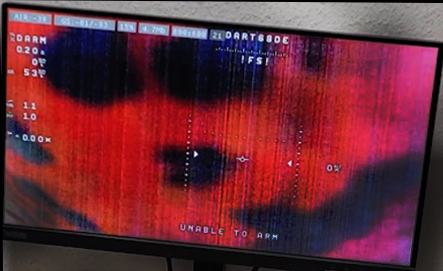
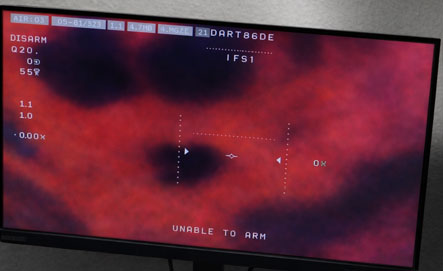
adjusted images and noise

diff --git a/src/main.ts b/src/main.ts
@@ -37,7 +37,6 @@ if (!compositionCtx) {
 const baseImage = new Image();
 baseImage.src = roomUrl;
 baseImage.decoding = 'async';
-baseImage.loading = 'lazy';
 baseImage.addEventListener('error', () => {
   console.error('Failed to load base image', roomUrl);
 });
@@ -85,52 +84,81 @@ const NB_FALLBACK_SIZE = { width: 320, height: 200 };
 const MONITOR_POS = { x: 550, y: 231 };
 const MONITOR_REGION = { width: 992 - 550, height: 501 - 231 };
 const MONITOR_FALLBACK_SIZE = { width: MONITOR_REGION.width, height: MONITOR_REGION.height };
-const MONITOR_NOISE_ALPHA = 0.08;
+const MONITOR_NOISE_ALPHA = 0.01;
+const MONITOR_NOISE_BLOCK_SIZE = 12;
 const NB_SCREEN_SRC = nbscreenUrl;
 const MONITOR_SRC = mscreenUrl;
 
 const noiseCanvas = document.createElement('canvas');
 noiseCanvas.width = NOISE_SIZE;
 noiseCanvas.height = NOISE_SIZE;
+const monitorNoiseCanvas = document.createElement('canvas');
+monitorNoiseCanvas.width = NOISE_SIZE;
+monitorNoiseCanvas.height = NOISE_SIZE;
 const noiseCtx = noiseCanvas.getContext('2d');
+const monitorNoiseCtx = monitorNoiseCanvas.getContext('2d');
 
 if (!noiseCtx) {
   throw new Error('Noise 2D context not available');
 }
+if (!monitorNoiseCtx) {
+  throw new Error('Monitor noise 2D context not available');
+}
 
 const notebookScreen = new Image();
 notebookScreen.decoding = 'async';
-notebookScreen.loading = 'lazy';
 
 const monitorScreen = new Image();
 monitorScreen.decoding = 'async';
-monitorScreen.loading = 'lazy';
 let ledOn = false;
 let blinkTimeout: number | undefined;
 let lastNoiseFrame = 0;
 let noiseRaf = 0;
+let baseLoaded = false;
 let notebookLoaded = false;
 let monitorLoaded = false;
 
-notebookScreen.src = NB_SCREEN_SRC;
-notebookScreen.addEventListener('load', () => {
-  notebookLoaded = true;
-  drawFrame();
-});
-notebookScreen.addEventListener('error', () => {
-  notebookLoaded = false;
-  console.warn('Notebook screen failed to load', NB_SCREEN_SRC);
-});
+function wireImage(
+  image: HTMLImageElement,
+  src: string,
+  onLoad: () => void,
+  onError: (err?: unknown) => void
+) {
+  image.addEventListener('load', onLoad);
+  image.addEventListener('error', onError);
+  image.src = src;
+  if (image.complete && image.naturalWidth) {
+    onLoad();
+  } else if ('decode' in image && typeof image.decode === 'function') {
+    image.decode().then(onLoad).catch(onError);
+  }
+}
 
-monitorScreen.src = MONITOR_SRC;
-monitorScreen.addEventListener('load', () => {
-  monitorLoaded = true;
-  drawFrame();
-});
-monitorScreen.addEventListener('error', () => {
-  monitorLoaded = false;
-  console.warn('Monitor screen failed to load', MONITOR_SRC);
-});
+wireImage(
+  notebookScreen,
+  NB_SCREEN_SRC,
+  () => {
+    notebookLoaded = true;
+    drawFrame();
+  },
+  (err) => {
+    notebookLoaded = false;
+    console.warn('Notebook screen failed to load', NB_SCREEN_SRC, err);
+  }
+);
+
+wireImage(
+  monitorScreen,
+  MONITOR_SRC,
+  () => {
+    monitorLoaded = true;
+    drawFrame();
+  },
+  (err) => {
+    monitorLoaded = false;
+    console.warn('Monitor screen failed to load', MONITOR_SRC, err);
+  }
+);
 
 function getClockText() {
   const now = new Date();
@@ -180,7 +208,7 @@ function composeBackgroundLayers() {
   }
 
   // Monitor noise
-  const monitorNoisePattern = compositionCtx.createPattern(noiseCanvas, 'repeat');
+  const monitorNoisePattern = compositionCtx.createPattern(monitorNoiseCanvas, 'repeat');
   if (monitorNoisePattern) {
     compositionCtx.save();
     compositionCtx.globalAlpha = MONITOR_NOISE_ALPHA;
@@ -244,16 +272,38 @@ function queueBlink() {
 }
 
 function generateNoise() {
-  const imageData = noiseCtx.createImageData(NOISE_SIZE, NOISE_SIZE);
-  const data = imageData.data;
-  for (let i = 0; i < data.length; i += 4) {
+  // Global film grain: per-pixel random grayscale.
+  const globalImageData = noiseCtx.createImageData(NOISE_SIZE, NOISE_SIZE);
+  const globalData = globalImageData.data;
+  for (let i = 0; i < globalData.length; i += 4) {
     const value = Math.floor(Math.random() * 256);
-    data[i] = value;
-    data[i + 1] = value;
-    data[i + 2] = value;
-    data[i + 3] = 255;
+    globalData[i] = value;
+    globalData[i + 1] = value;
+    globalData[i + 2] = value;
+    globalData[i + 3] = 255;
   }
-  noiseCtx.putImageData(imageData, 0, 0);
+  noiseCtx.putImageData(globalImageData, 0, 0);
+
+  // Monitor noise: blocky grayscale to mimic JPEG macroblocks.
+  const monitorImageData = monitorNoiseCtx.createImageData(NOISE_SIZE, NOISE_SIZE);
+  const monitorData = monitorImageData.data;
+  for (let y = 0; y < NOISE_SIZE; y += MONITOR_NOISE_BLOCK_SIZE) {
+    for (let x = 0; x < NOISE_SIZE; x += MONITOR_NOISE_BLOCK_SIZE) {
+      const value = Math.floor(Math.random() * 256);
+      for (let by = 0; by < MONITOR_NOISE_BLOCK_SIZE; by++) {
+        for (let bx = 0; bx < MONITOR_NOISE_BLOCK_SIZE; bx++) {
+          const px = x + bx;
+          const py = y + by;
+          const idx = (py * NOISE_SIZE + px) * 4;
+          monitorData[idx] = value;
+          monitorData[idx + 1] = value;
+          monitorData[idx + 2] = value;
+          monitorData[idx + 3] = 255;
+        }
+      }
+    }
+  }
+  monitorNoiseCtx.putImageData(monitorImageData, 0, 0);
 }
 
 function animateNoise(timestamp: number) {
@@ -444,6 +494,8 @@ function applyLayout() {
 }
 
 function handleImageReady() {
+  if (baseLoaded) return;
+  baseLoaded = true;
   state.naturalWidth = baseImage.naturalWidth;
   state.naturalHeight = baseImage.naturalHeight;
   applyLayout();
@@ -492,9 +544,11 @@ function applyParallax(event: MouseEvent) {
 
 window.addEventListener('mousemove', applyParallax);
 
-baseImage.addEventListener('load', handleImageReady, { once: true });
-if (baseImage.complete && baseImage.naturalWidth) {
-  handleImageReady();
-}
+wireImage(
+  baseImage,
+  roomUrl,
+  handleImageReady,
+  (err) => console.error('Failed to load base image', roomUrl, err)
+);
 
 window.addEventListener('resize', applyLayout);

diff --git a/vite.config.ts b/vite.config.ts
@@ -1,6 +1,7 @@
 import { defineConfig } from 'vite';
 
 export default defineConfig({
+  base: './',
   build: {
     outDir: 'dist'
   }

diff --git a/doc/tdd.md b/doc/tdd.md
@@ -57,7 +57,7 @@ Layers (draw order top to bottom):
 - Notebook screen: `nbscreen.jpg` at (218, 415) when loaded.
 - Notebook clock/date: translated to (253, 547), rotated -6°, draws HH:MM in white 22px Space Grotesk, then the date below in white 14px (26px vertical offset); textBaseline is `top`.
 - Monitor screen: `mscreen.jpg` at (550, 231) when loaded.
-- Monitor noise: tiled 180px white-noise texture over the monitor region (550, 231) sized 442×270 with global alpha 0.08.
+- Monitor noise: tiled 180px texture made of 6×6 grayscale blocks (JPEG-like macroblocks) over the monitor region (550, 231) sized 442×270 with global alpha 0.02.
 - Frame: `room.png` covering the full natural size.
 
 
